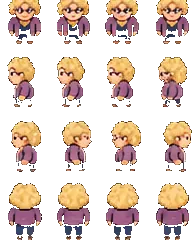
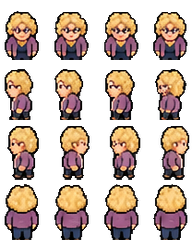
Repair all 9 NPC sheets with clean alpha extraction and use updated sprites

diff --git a/src/worker.js b/src/worker.js
@@ -1017,7 +1017,7 @@ class Explore extends Phaser.Scene{
    // The player sprite already loads successfully from jsDelivr. Load NPC sheets the same way,
    // pinned to the immutable commit that added all nine files (avoids Worker proxy 500/cache).
    for(const def of NPC_DEFINITIONS)this.load.spritesheet("npc_"+def.id,
-     "https://cdn.jsdelivr.net/gh/adamkerekhu/MaestroEscape@75ddb29a71b32ff1eeff637c3188bfd1c27f1dd6/Assets/NPCs/"+def.id+".webp",
+     "https://cdn.jsdelivr.net/gh/adamkerekhu/MaestroEscape@main/Assets/NPCs/"+def.id+".webp",
      {frameWidth:48,frameHeight:60});
    this.load.spritesheet("maestro","https://cdn.jsdelivr.net/gh/adamkerekhu/MaestroEscape@main/Assets/Characters/maestro_walk.webp",{frameWidth:80,frameHeight:120});
    this.load.image("skoda","/assets/skoda-highres.webp");
